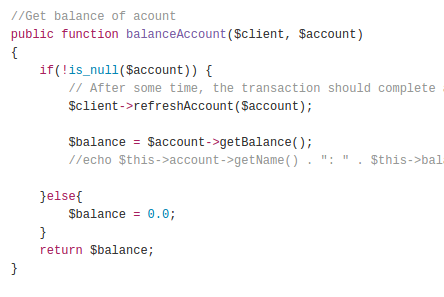
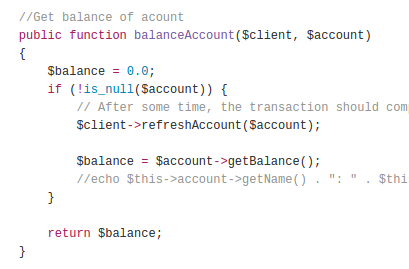
New refactorize slades in presentation.

diff --git a/index.html b/index.html
@@ -331,6 +331,20 @@
 				<img data-src="public/img/code/phpunit.png">
 			</section>
 		</section>
+		
+		<section data-background="#FA5858">
+			<section data-markdown>
+				<script type="text/template">
+					## Refactorització
+				</script>
+			</section>
+			<section>
+				<img data-src="public/img/code/refactorizeBalanceAccount.png">
+			</section>
+			<section>
+				<img data-src="public/img/code/refactorizeAutoTradeController.png">
+			</section>
+		</section>
 
 		<section data-markdown data-background="#088A85">
 			<script type="text/template">
